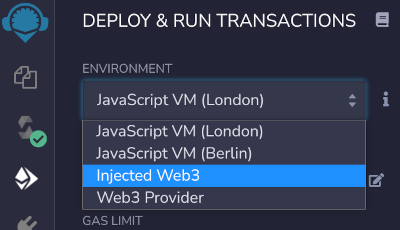
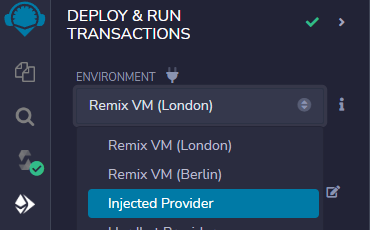
update remix deploy environment name

diff --git a/docs/Introduction/getting-started/deploy-your-first-contract.md b/docs/Introduction/getting-started/deploy-your-first-contract.md
@@ -81,8 +81,8 @@ Your first contract is a simple `HelloWorld.sol` example. This example shows you
 1. After Remix compiles the contract, deploy it. On the left side of Remix, click the **Deploy and Run** tab to view the deployment settings.
     ![Screenshot of the Deploy tab and its settings.](/images/getting-started/selectSolidityDeploy.png)
 
-1. In the deployment settings, select the **Injected Web3** environment. This tells Remix that you want to deploy your contract to the blockchain that you configured in MetaMask. You could optionally use one of the Javascript VM options, but they run in a virtual environment with no connection to an actual blockchain or Chainlink oracles.
-    ![Screenshot showing the Injected Web3 environment selected.](/images/getting-started/selectWeb3.png)
+1. In the deployment settings, select the **Injected Provider** environment. This tells Remix that you want to deploy your contract to the blockchain that you configured in MetaMask. You could optionally use one of the Javascript VM options, but they run in a virtual environment with no connection to an actual blockchain or Chainlink oracles.
+    ![Screenshot showing the Injected Provider environment selected.](/images/getting-started/selectWeb3.png)
 
 1. Next to the **Deploy** button, enter a message that you want to send with the smart contract when you deploy it. This contract has a constructor that sets an initial message when you deploy the contract.
     ![Screenshot of the Deploy button with "Hello world!" as the defined message.](/images/getting-started/deployHelloWorld.png)

diff --git a/docs/Introduction/getting-started/consuming-data-feeds.md b/docs/Introduction/getting-started/consuming-data-feeds.md
@@ -63,8 +63,8 @@ Deploy the `PriceConsumerV3` smart contract on the Rinkeby testnet.
 1. Use the default compiler settings. Click the **Compile PriceConsumerV3.sol** button to compile the contract. Remix automatically detects the correct compiler version depending on the `pragma` that you specify in the contract. You can ignore warnings about unused local variables in this example.
     ![Screenshot of the Compile button.](/images/getting-started/compilePriceConsumerV3.png)
 
-1. On the **Deploy** tab, select the **Injected Web3** environment. This contract specifically requires Web3 because it connects with another contract on the blockchain. Running in a JavaScript VM will not work.
-    ![Screenshot showing the Injected Web3 environment selected.](/images/getting-started/selectWeb3.png)
+1. On the **Deploy** tab, select the **Injected Provider** environment. This contract specifically requires Web3 because it connects with another contract on the blockchain. Running in a JavaScript VM will not work.
+    ![Screenshot showing the Injected Provider environment selected.](/images/getting-started/selectWeb3.png)
 
 1. Because the example contract has several imports, Remix might select another contract to deploy by default. In the **Contract** section, select the `PriceConsumerV3` contract to make sure that Remix deploys the correct contract.
     ![Screenshot showing PriceConsumerV3 as the contract to deploy.](/images/getting-started/selectPriceConsumerV3.png)

diff --git a/docs/chainlink-keepers/compatible-contracts.md b/docs/chainlink-keepers/compatible-contracts.md
@@ -50,7 +50,7 @@ Use these elements to create a Keepers-compatible contract that will automatical
 Compile and deploy your own Keepers Counter onto a [supported Testnet](../supported-networks).
 
 1. In the Remix example, select the compile tab on the left and press the compile button. Make sure that your contract compiles without any errors. Note that the Warning messages in this example are acceptable and will not block the deployment.
-1. Select the **Deploy** tab and deploy the `Counter` smart contract in the `injected web3` environment. When deploying the contract, specify the `updateInterval` value. For this example, set a short interval of 60. This is the interval at which the `performUpkeep` function will be called.
+1. Select the **Deploy** tab and deploy the `Counter` smart contract in the `Injected Provider - Metamask` environment. When deploying the contract, specify the `updateInterval` value. For this example, set a short interval of 60. This is the interval at which the `performUpkeep` function will be called.
 1. After deployment is complete, copy the address of the deployed contract. This address is required to [register](../register-upkeep/) your upkeep.
 
 To see more complex examples, go to the [utility contracts](../utility-contracts) page.

diff --git a/docs/Node Operators/fulfilling-requests.md b/docs/Node Operators/fulfilling-requests.md
@@ -46,7 +46,7 @@ Your node works with several different types of addresses. Each address type has
 
 1. On the **Deploy and Run** tab, configure the following settings:
 
-   - Select "Injected Web3" as your **Environment**. The Javascript VM environment cannot access your oracle node.
+   - Select "Injected Provider" as your **Environment**. The Javascript VM environment cannot access your oracle node.
    - Select the "Oracle" contract from the **Contract** menu.
    - Copy the LINK token contract address for the network you are using and paste it into the `address_link` field next to the **Deploy** button. Use one of the following network addresses:
 
@@ -135,7 +135,7 @@ After you add jobs to your node, you can use the node to fulfill requests. This 
 
 1. On the **Deploy and Run** tab, configure the following settings:
 
-   - Select "Injected Web3" as your environment.
+   - Select "Injected Provider" as your environment.
    - Select "ATestnetConsumer" from the **Contract** menu.
 
 1. Click **Deploy**. MetaMask prompts you to confirm the transaction.

diff --git a/docs/events/avasummit/overview.md b/docs/events/avasummit/overview.md
@@ -103,7 +103,7 @@ To use this contract:
 
 1. Open the [contract in Remix](https://remix.ethereum.org/#url=https://docs.chain.link/samples/events/avasummit/VRFv2SubscriptionManager.sol).
 
-1. Compile and deploy the contract using the Injected Web3 environment. The contract includes all the configuration variables you need, but you can edit them if necessary. Notice that this contract automatically creates a new subscription when you deploy it. Read the `s_subscriptionId` variable to find the contract subscription ID.
+1. Compile and deploy the contract using the Injected Provider environment. The contract includes all the configuration variables you need, but you can edit them if necessary. Notice that this contract automatically creates a new subscription when you deploy it. Read the `s_subscriptionId` variable to find the contract subscription ID.
 
 1. Fund your contract with at least two testnet LINK as shown [here](/docs/fund-your-contract/). Call the `getLinkBalance()` function to verify: it should return `2000000000000000000`.
 

diff --git a/docs/Using Randomness/example-contracts.md b/docs/Using Randomness/example-contracts.md
@@ -53,7 +53,7 @@ To use this contract, compile and deploy it in Remix.
 
 1. Open the contract in [Remix](https://remix.ethereum.org/#url=https://docs.chain.link/samples/VRF/VRFv2SubscriptionManager.sol).
 
-1. Compile and deploy the contract using the Injected Web3 environment. The contract includes all of the configuration variables that you need, but you can edit them if necessary. For a full list of available configuration variables, see the [Contract Addresses](/docs/vrf-contracts/) page.
+1. Compile and deploy the contract using the Injected Provider environment. The contract includes all of the configuration variables that you need, but you can edit them if necessary. For a full list of available configuration variables, see the [Contract Addresses](/docs/vrf-contracts/) page.
 
     This contract automatically creates a new subscription when you deploy it. Read the `s_subscriptionId` variable to find your subscription ID. You can use this value to find the subscription in the [Subscription Manager](https://vrf.chain.link).
 

diff --git a/docs/Using Any API/multi-variable-responses.md b/docs/Using Any API/multi-variable-responses.md
@@ -72,7 +72,7 @@ To use this contract:
 
 1. [Open the contract in Remix](https://remix.ethereum.org/#url=https://docs.chain.link/samples/APIRequests/MultiWordConsumer.sol).
 
-1. Compile and deploy the contract using the Injected Web3 environment. The contract includes all the configuration variables for the _Rinkeby_ testnet. Make sure your wallet is set to use _Rinkeby_. The _constructor_ sets the following parameters:
+1. Compile and deploy the contract using the Injected Provider environment. The contract includes all the configuration variables for the _Rinkeby_ testnet. Make sure your wallet is set to use _Rinkeby_. The _constructor_ sets the following parameters:
 
    - The Chainlink Token address for _Rinkeby_ by calling the [`setChainlinkToken`](/docs/chainlink-framework/#setchainlinktoken) function.
    - The Oracle contract address for _Rinkeby_ by calling the [`setChainlinkOracle`](/docs/chainlink-framework/#setchainlinkoracle) function.

diff --git a/docs/Using Any API/array-response.md b/docs/Using Any API/array-response.md
@@ -79,7 +79,7 @@ To use this contract:
 
 1. Open the [contract in Remix](https://remix.ethereum.org/#url=https://docs.chain.link/samples/APIRequests/FetchFromArray.sol).
 
-1. Compile and deploy the contract using the Injected Web3 environment. The contract includes all the configuration variables for the _Rinkeby_ testnet. Make sure your wallet is set to use _Rinkeby_. The _constructor_ sets the following parameters:
+1. Compile and deploy the contract using the Injected Provider environment. The contract includes all the configuration variables for the _Rinkeby_ testnet. Make sure your wallet is set to use _Rinkeby_. The _constructor_ sets the following parameters:
 
    - The Chainlink Token address for _Rinkeby_ by calling the [`setChainlinkToken`](/docs/chainlink-framework/#setchainlinktoken) function.
    - The Oracle contract address for _Rinkeby_ by calling the [`setChainlinkOracle`](/docs/chainlink-framework/#setchainlinkoracle) function.

diff --git a/docs/Using Any API/large-responses.md b/docs/Using Any API/large-responses.md
@@ -66,7 +66,7 @@ To use this contract:
 
 1. Open the [contract in Remix](https://remix.ethereum.org/#url=https://docs.chain.link/samples/APIRequests/GenericBigWord.sol).
 
-1. Compile and deploy the contract using the Injected Web3 environment. The contract includes all the configuration variables for the _Rinkeby_ testnet. Make sure your wallet is set to use _Rinkeby_. The _constructor_ sets the following parameters:
+1. Compile and deploy the contract using the Injected Provider environment. The contract includes all the configuration variables for the _Rinkeby_ testnet. Make sure your wallet is set to use _Rinkeby_. The _constructor_ sets the following parameters:
 
    - The Chainlink Token address for _Rinkeby_ by calling the [`setChainlinkToken`](/docs/chainlink-framework/#setchainlinktoken) function.
    - The Oracle contract address for _Rinkeby_ by calling the [`setChainlinkOracle`](/docs/chainlink-framework/#setchainlinkoracle) function.

diff --git a/docs/Using Any API/existing-job-request.md b/docs/Using Any API/existing-job-request.md
@@ -80,7 +80,7 @@ To use this contract:
 
 1. Open the [contract in Remix](https://remix.ethereum.org/#url=https://docs.chain.link/samples/APIRequests/GetGasPrice.sol).
 
-1. Compile and deploy the contract using the Injected Web3 environment. The contract includes all the configuration variables for the _Rinkeby_ testnet. Make sure your wallet is set to use _Rinkeby_. The _constructor_ sets the following parameters:
+1. Compile and deploy the contract using the Injected Provider environment. The contract includes all the configuration variables for the _Rinkeby_ testnet. Make sure your wallet is set to use _Rinkeby_. The _constructor_ sets the following parameters:
 
    - The Chainlink Token address for _Rinkeby_ by calling the [`setChainlinkToken`](/docs/chainlink-framework/#setchainlinktoken) function.
    - The Oracle contract address for _Rinkeby_ by calling the [`setChainlinkOracle`](/docs/chainlink-framework/#setchainlinkoracle) function.

diff --git a/docs/Using Any API/single-word-response.md b/docs/Using Any API/single-word-response.md
@@ -93,7 +93,7 @@ To use this contract:
 
 1. Open the [contract in Remix](https://remix.ethereum.org/#url=https://docs.chain.link/samples/APIRequests/APIConsumer.sol).
 
-1. Compile and deploy the contract using the Injected Web3 environment. The contract includes all the configuration variables for the _Rinkeby_ testnet. Make sure your wallet is set to use _Rinkeby_. The _constructor_ sets the following parameters:
+1. Compile and deploy the contract using the Injected Provider environment. The contract includes all the configuration variables for the _Rinkeby_ testnet. Make sure your wallet is set to use _Rinkeby_. The _constructor_ sets the following parameters:
 
    - The Chainlink Token address for _Rinkeby_ by calling the [`setChainlinkToken`](/docs/chainlink-framework/#setchainlinktoken) function.
    - The Oracle contract address for _Rinkeby_ by calling the [`setChainlinkOracle`](/docs/chainlink-framework/#setchainlinkoracle) function.

diff --git a/docs/Using Randomness/get-a-random-number.md b/docs/Using Randomness/get-a-random-number.md
@@ -77,7 +77,7 @@ Build and deploy the contract on Rinkeby.
 
 1. On the **Compile** tab in Remix, compile the `VRFv2Consumer.sol` contract.
 
-1. Configure your deployment. On the **Deploy** tab in Remix, select the **Injected Web3 Environment**, select the `VRFv2Consumer` contract from the contract list, and specify your `subscriptionId` so the constructor can set it.
+1. Configure your deployment. On the **Deploy** tab in Remix, select the **Injected Provider Environment**, select the `VRFv2Consumer` contract from the contract list, and specify your `subscriptionId` so the constructor can set it.
 
     ![Example showing the deploy button with the subscriptionID field filled in Remix](/images/vrf/deployWithSubscriptionId.png)
 
